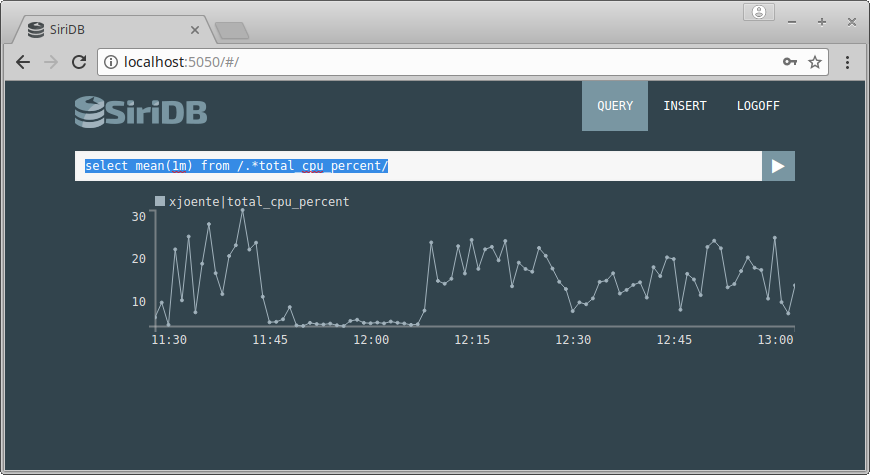
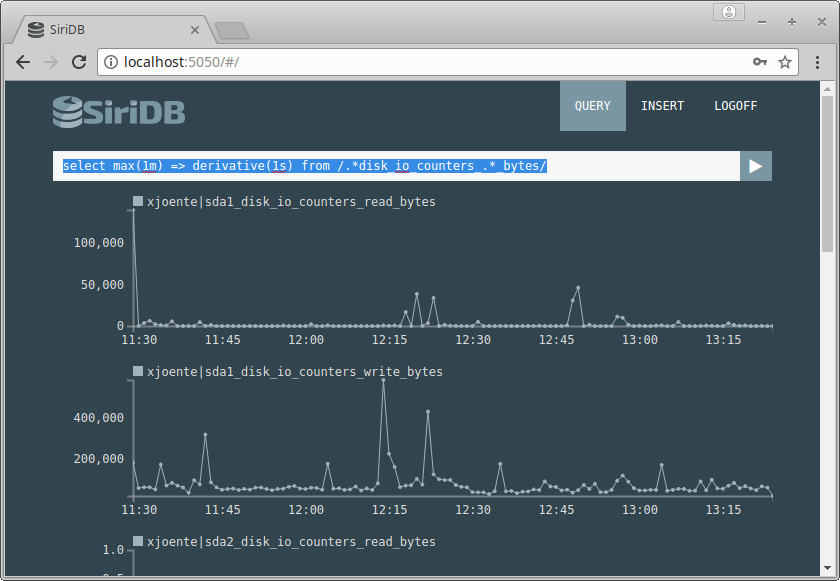
Upd screenshorts

Changed region(s): [[0.0, 0.0, 1.0, 1.0]]

diff --git a/README.md b/README.md
@@ -211,5 +211,19 @@ Now you have a prompt available where you can test you queries:
 
 ![alt SiriDB HTTP select](/siridb-http-select.png?raw=true)
 
+Go Back to Grafana and click on `Add row` -> `Graph`.
+Now click on the new `Panel title` -> `edit`.
+
+![alt Grafana graph](/grafana-add-graph.png?raw=true)
+
+Now fill in `/.*disk_io_counters_read_bytes/` at 'select', choose 'max' as aggregation and select 'diffps'
+
+![alt Grafana read bytes](/grafana-add-read-bytes.png?raw=true)
+
+On the General tab you can change the panel title to 'Disk IO counters (read bytes)'
+Repeat this steps for the write counters and then you should have the following result:
+
+![alt Grafana disk io counters bytes](/grafana-add-read-bytes?raw=true)
+
 I Hope this tutorial was helpful and I would be glad to hear what you can create by using Grafana and SiriDB!
 
